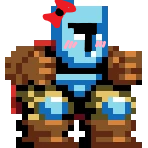
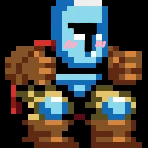
animation

diff --git a/main.py b/main.py
@@ -6,37 +6,87 @@ import setting
 class MainCharacter(pygame.sprite.Sprite):
     def __init__(self, x, y, size, jump_h, walk_s):
         pygame.sprite.Sprite.__init__(self)
-        self.images = []
-        self.idle_img_index = -1
+        self.idle_images = []
+        self.move_images = []
+        self.jump_images = []
+        self.drop_images = []
+        self.move_frame = 0
         for file_index, file in enumerate(os.listdir(setting.character_images_path)):
-            img = pygame.image.load(os.path.join(setting.character_images_path, file)).convert()
-            img = pygame.transform.scale(img, (size[0], size[1]))
-            img.convert_alpha()
-            img.set_colorkey((0, 0, 0))
-            self.images.append(img)
-            if file == setting.idle_img_name:
-                self.idle_img_index = file_index
+            ori_path = os.path.join(setting.character_images_path, file)
+            if os.path.isfile(ori_path):
+                img = pygame.image.load(ori_path).convert()
+                img = pygame.transform.scale(img, (size[0], size[1]))
+                img.set_colorkey((0, 0, 0))
+                self.idle_images.append(img)
+            if os.path.isdir(ori_path):
+                for image in os.listdir(ori_path):
+                    path = os.path.join(ori_path, image)
+                    img = pygame.image.load(path).convert()
+                    img = pygame.transform.scale(img, (size[0], size[1]))
+                    img.set_colorkey((0, 0, 0))
 
-        self.image = self.images[self.idle_img_index]
+                    if ori_path == setting.character_move_ani:
+                        self.move_images.append(img)
+                    elif ori_path == setting.character_jump_ani:
+                        self.jump_images.append(img)
+                    elif ori_path == setting.character_drop_ani:
+                        self.drop_images.append(img)
+
+        self.image = self.idle_images[0]
         self.rect = self.image.get_rect()
         self.rect.center = (x, y)
         self.speed = walk_s
         self.jump = jump_h
 
-        self.direction = 'right'
+        self.left = False
+        self.right = True
+        self.moving = False
+
 
     def update(self):
         key_press = pygame.key.get_pressed()
+
+        if not self.moving:
+            self.image = self.idle_images[0]
+            if self.left:
+                self.image = pygame.transform.flip(self.image, True, False)
+
+
         if key_press[pygame.K_a]:
+            self.moving = True
             self.rect.x -= self.speed
-            if self.direction != 'left':
-                self.image = pygame.transform.flip(self.image, True, False)
-                self.direction = 'left'
+
+            self.move_frame = self.move_frame + 1
+            if self.move_frame >= len(self.move_images):
+                self.move_frame = 0
+            self.moving_animation()
+            if self.right:
+                #self.image = pygame.transform.flip(self.image, True, False)
+                self.left = True
+                self.right = False
+            self.moving = False
+
         if key_press[pygame.K_d]:
+            self.moving = True
             self.rect.x += self.speed
-            if self.direction != 'right':
-                self.image = pygame.transform.flip(self.image, True, False)
-                self.direction = 'right'
+
+            self.move_frame = self.move_frame + 1
+            if self.move_frame >= len(self.move_images):
+                self.move_frame = 0
+            self.moving_animation()
+            if self.left:
+                #self.image = pygame.transform.flip(self.image, True, False)
+                self.left = False
+                self.right = True
+            self.moving = False
+
+
+
+    def moving_animation(self):
+        self.image = self.move_images[self.move_frame]
+        if self.left:
+            self.image = pygame.transform.flip(self.image, True, False)
+
 
 
 

diff --git a/setting.py b/setting.py
@@ -1,5 +1,7 @@
+import os
+
 # Game Setting
-FPS = 60
+FPS = 10
 
 # Screen Settings
 screen_size = [1000, 1000]
@@ -12,4 +14,7 @@ character_size = [50, 70]
 walking_speed = 5
 jumping_height = 0
 character_images_path = "character_png"
+character_move_ani = os.path.join(character_images_path, 'movement')
+character_jump_ani = os.path.join(character_images_path, 'jump')
+character_drop_ani = os.path.join(character_images_path, 'drop')
 idle_img_name = "stationary.png"
